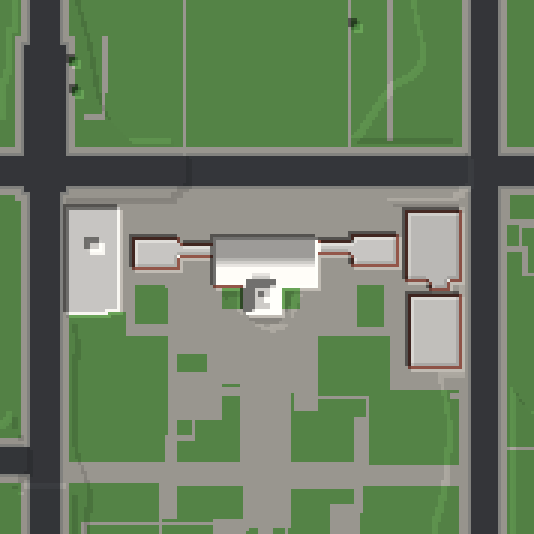
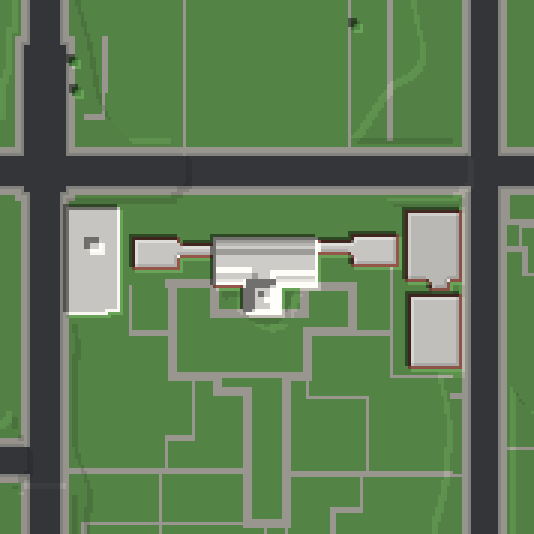
Green squares stay green; part roofs capped at 3 voxels without roof:height; landmark slates
Claude-Session: https://claude.ai/code/session_01CN9bu1mHwqFVikCiPKDbsu

Changed region(s): [[0.1199, 0.3596, 0.8689, 1.0]]

diff --git a/src/build.js b/src/build.js
@@ -138,7 +138,8 @@ export function buildPlace(geo, { cell = METRES_PER_CELL, straighten = 'grid', s
     const landAt = new Map(), freeCell = (x, y) => x >= 0 && y >= 0 && x < W && y < D && !occupied.has(k2(x, y)) && !roadAt.has(k2(x, y)) && !lotSet.has(k2(x, y));
     const GREEN = a => /^(park|garden|pitch|playground|dog_park|common)$/.test(a.tags?.leisure || '') || /^(grass|recreation_ground|village_green|meadow|cemetery|flowerbed|forest)$/.test(a.tags?.landuse || '') || /^(grassland|wood|scrub)$/.test(a.tags?.natural || '');
     for (const a of (G.areas || []).filter(a => a.ring?.length >= 3 && GREEN(a)).sort((p, q) => (p.tags?.leisure === 'park' ? 0 : 1) - (q.tags?.leisure === 'park' ? 0 : 1))) {
-        const plaza = /plaza|square|piazza/i.test(a.tags?.name || '') && a.tags?.leisure === 'park';
+        // (a US "square" is usually a green park: only plazas/piazzas or explicitly paved parks are paved)
+        const plaza = a.tags?.leisure === 'park' && (/plaza|piazza/i.test(a.tags?.name || '') || /^(paving_stones|sett|concrete|paved|asphalt)$/.test(a.tags?.surface || ''));
         for (const c of rasterPolygon(a.ring.map(toC), W, D)) if (freeCell(...c)) landAt.set(k2(...c), plaza ? 'plaza' : 'green');
     }
     for (const h of G.highways || []) {
@@ -243,7 +244,7 @@ export function buildPlace(geo, { cell = METRES_PER_CELL, straighten = 'grid', s
             const rim = (x, y) => N4.some(([dx, dy]) => !pset.has(k2(x + dx, y + dy)));
             for (let z = zFrom; z <= Math.max(zFrom, zEave); z++) for (const [x, y] of pc) if (z === zFrom) g.set(x, y, z, M.floor); else if (rim(x, y)) g.set(x, y, z, (z - zFrom) % 4 === 2 && pc.length > 6 && (x + y) % 2 ? M.glass : pm);
             const xs = pc.map(c => c[0]), ys = pc.map(c => c[1]), x0 = Math.min(...xs), x1 = Math.max(...xs), y0 = Math.min(...ys), y1 = Math.max(...ys), gable = /gabled|saltbox/.test(p.roofShape);
-            const rise = roofV || (p.roofShape === 'flat' ? 0 : Math.max(1, Math.floor(Math.min(x1 - x0 + 1, y1 - y0 + 1) / 2)));
+            const rise = roofV || (p.roofShape === 'flat' ? 0 : Math.max(1, Math.min(3, Math.floor(Math.min(x1 - x0 + 1, y1 - y0 + 1) / 2))));
             for (const [x, y] of pc) {
                 if (!rise) { g.set(x, y, Math.max(zFrom, zEave) + 1, M.roof); continue; }
                 const inX = Math.min(x - x0, x1 - x), inY = Math.min(y - y0, y1 - y), step = gable ? (x1 - x0 >= y1 - y0 ? inY : inX) : Math.min(inX, inY);

diff --git a/README.md b/README.md
@@ -13,6 +13,10 @@ runs straight across the road — no ragged pixel staircases from roads that wer
 *Sherwood Forest Blvd × Florida Blvd and Third Street, Baton Rouge (examples/). Florida Blvd really meets Sherwood at
 about 79°; on the straightened map it is 90° and the shopping centre slides with it.*
 
+| Old State Capitol, Baton Rouge (Gothic Revival, lawn and paths) | Independence Hall, Philadelphia (tower from OSM 3D parts) |
+|---|---|
+| ![capitol](docs/img/baton-rouge-old-state-capitol-grid.png) | ![independence hall](docs/img/philadelphia-independence-hall-grid.png) |
+
 ![in game](docs/img/in-game-sherwood.jpg)
 *The Sherwood map in a turn-based tactics game (Three.js) — road paint from the same road graph.*
 
